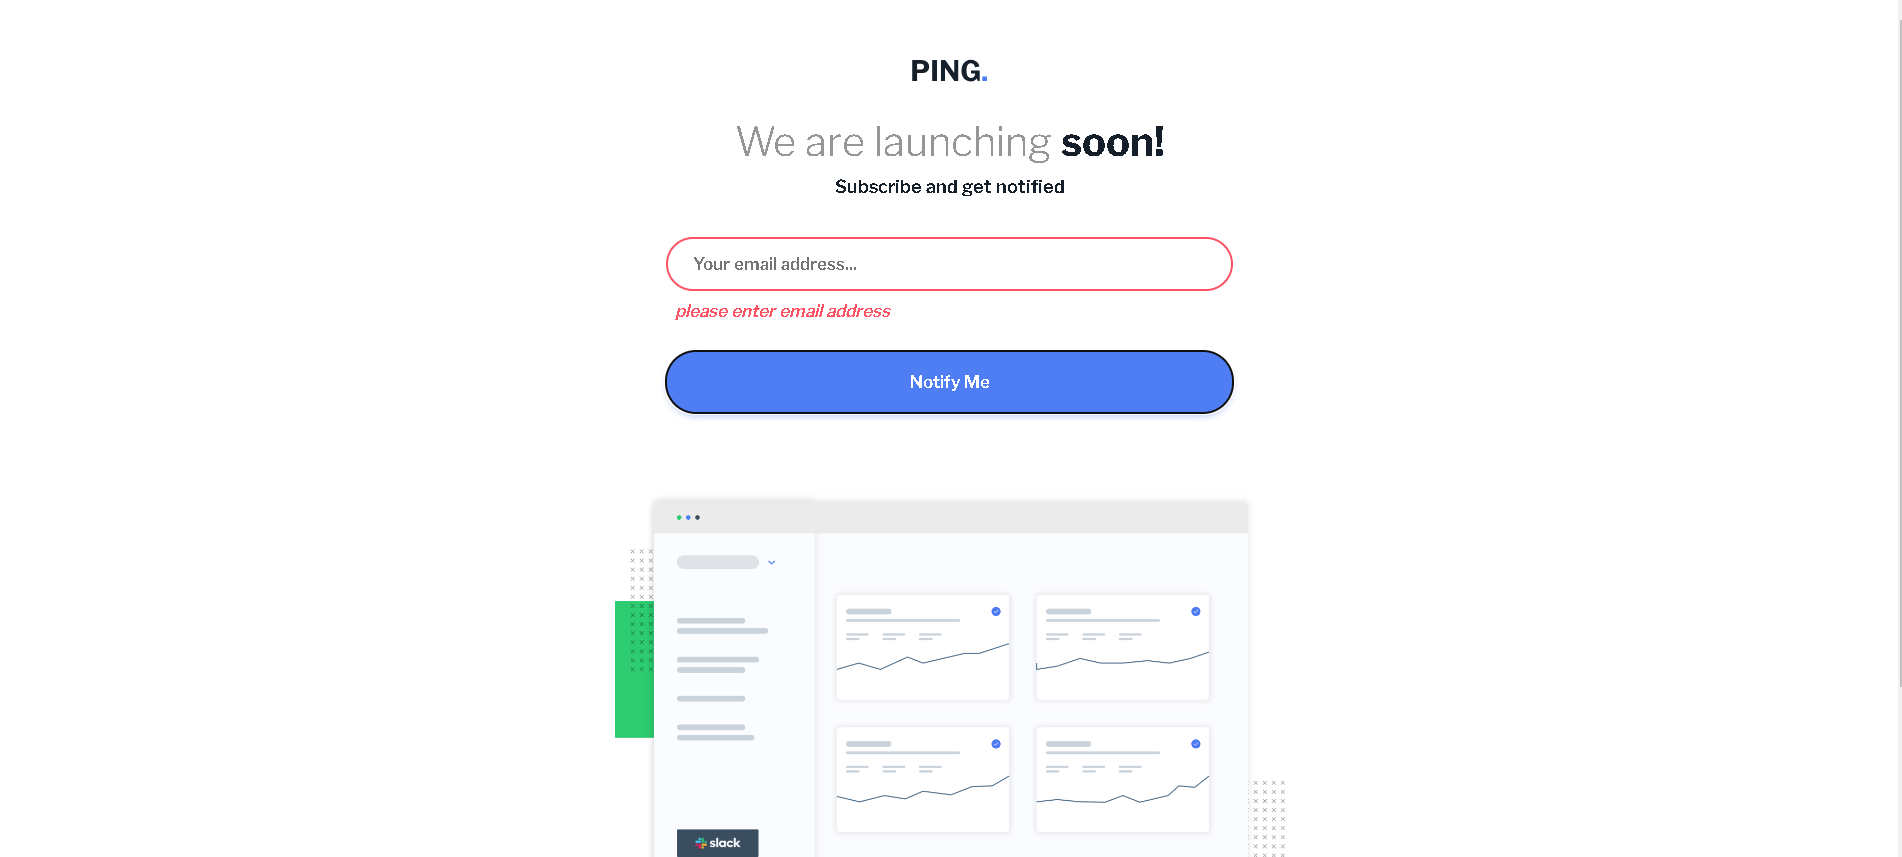
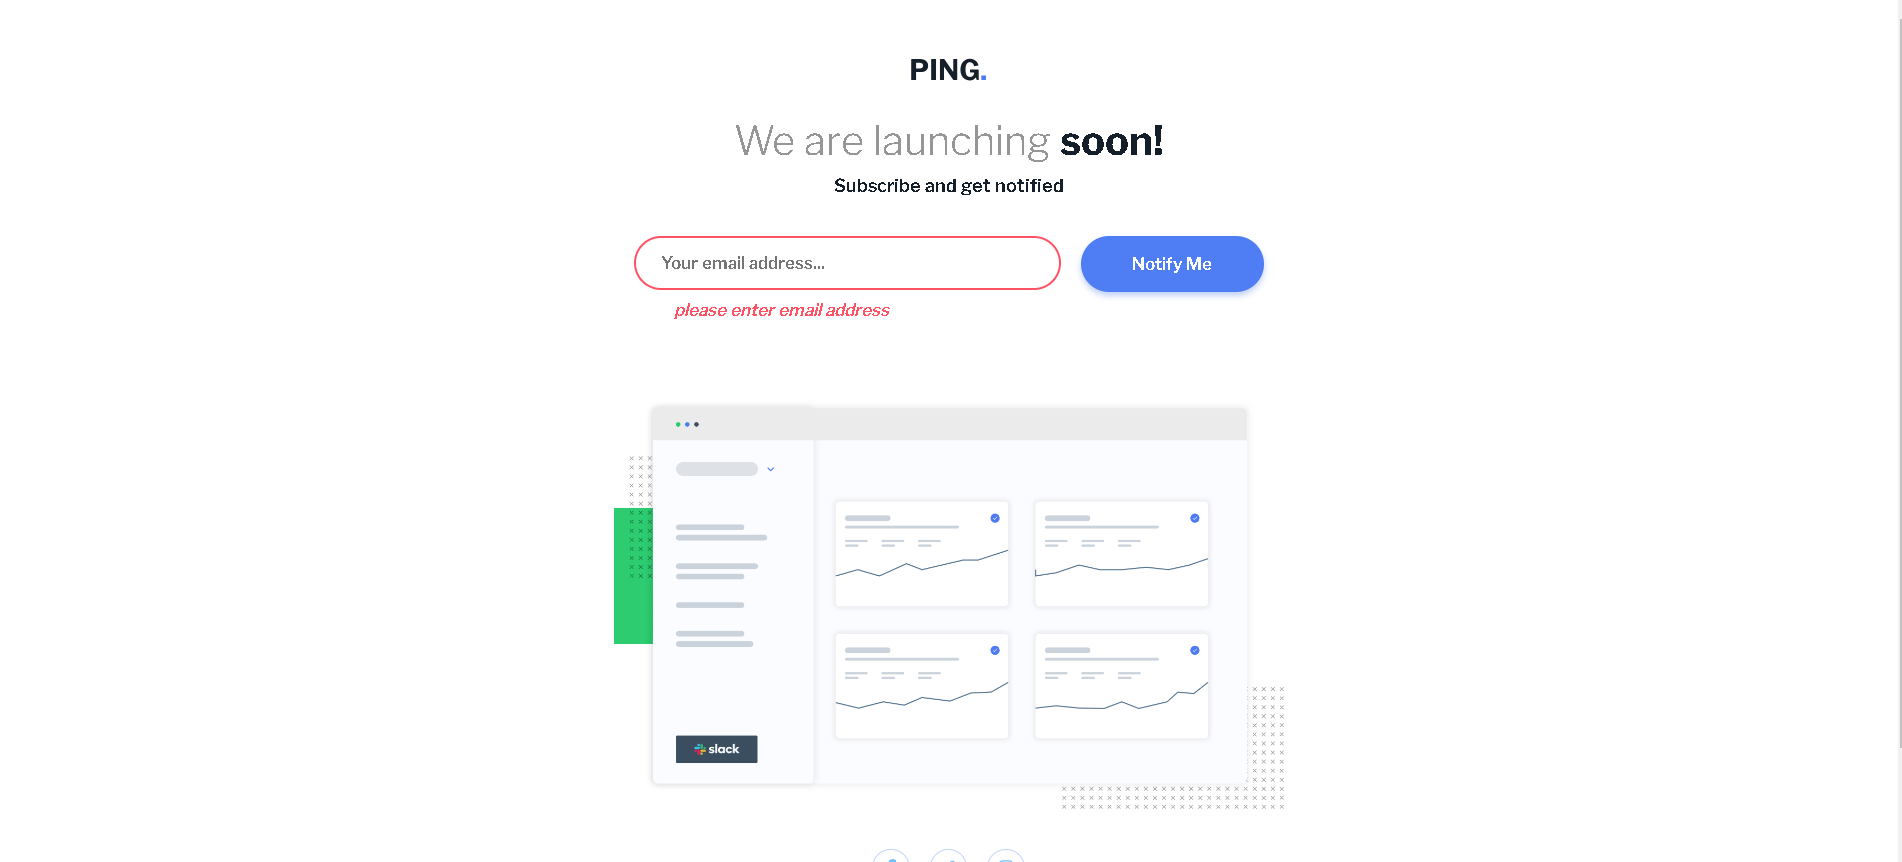
first commit

diff --git a/style.css b/style.css
@@ -66,22 +66,22 @@ span{
 .mailDiv{
     width: 100%;
     display: flex;
-    flex-direction: column;
+    flex-direction: row;
     justify-content: center;
-    align-items: center;
+    align-items: start;
     padding: 0 3rem ;
     gap: 1rem;
 }
 .input{
-    width:90% ;
+    width:100% ;
     padding: 12px 12px 12px 20px;
     border: 1px solid var(--Blue);
     border-radius: 1.5rem;
     font-weight: 600;
 }
 .btn{
-    width: 90%;
-    height: 50px;
+    width: 30%;
+    height:45px;
     padding: 0px ;
     border: none;
     background-color: var(--Blue);
@@ -112,7 +112,7 @@ span{
     fill:#74C0FC;
 }
 .errordiv{
-    width: 100%;
+    width: 70%;
     margin-top: 0.5rem;
     padding: 0 0rem ;
     /* display: none; */
@@ -222,6 +222,7 @@ span{
     .mailDiv{
         width: 100%;
         display: flex;
+        flex-direction: column;
         padding: 0 0rem ;
         gap: 1rem;
         justify-content: center;
@@ -236,7 +237,7 @@ span{
     }
     .btn{
         width: 90%;
-        height: 50px;
+        height: 45px;
         padding: 0px ;
         border: none;
         background-color: var(--Blue);

diff --git a/README-template.md b/README-template.md
@@ -10,14 +10,7 @@ This is a solution to the [Ping coming soon page challenge on Frontend Mentor](h
   - [Links](#links)
 - [My process](#my-process)
   - [Built with](#built-with)
-  - [What I learned](#what-i-learned)
-  - [Continued development](#continued-development)
-  - [Useful resources](#useful-resources)
 - [Author](#author)
-- [Acknowledgments](#acknowledgments)
-
-**Note: Delete this note and update the table of contents based on what sections you keep.**
-
 ## Overview
 
 ### The challenge
@@ -33,15 +26,10 @@ Users should be able to:
 
 ### Screenshot
 
-![](./screenshot.jpg)
-
-Add a screenshot of your solution. The easiest way to do this is to use Firefox to view your project, right-click the page and select "Take a Screenshot". You can choose either a full-height screenshot or a cropped one based on how long the page is. If it's very long, it might be best to crop it.
-
-Alternatively, you can use a tool like [FireShot](https://getfireshot.com/) to take the screenshot. FireShot has a free option, so you don't need to purchase it. 
-
-Then crop/optimize/edit your image however you like, add it to your project, and update the file path in the image above.
-
-**Note: Delete this note and the paragraphs above when you add your screenshot. If you prefer not to add a screenshot, feel free to remove this entire section.**
+![](./images/MobileSuccess.png)
+![](./images/MobileError.png)
+![](./images/DesktopSuccess.png)
+![](./images/DesktopError.png)
 
 ### Links
 
@@ -57,59 +45,10 @@ Then crop/optimize/edit your image however you like, add it to your project, and
 - Flexbox
 - CSS Grid
 - Mobile-first workflow
-- [React](https://reactjs.org/) - JS library
-- [Next.js](https://nextjs.org/) - React framework
-- [Styled Components](https://styled-components.com/) - For styles
-
-**Note: These are just examples. Delete this note and replace the list above with your own choices**
-
-### What I learned
-
-Use this section to recap over some of your major learnings while working through this project. Writing these out and providing code samples of areas you want to highlight is a great way to reinforce your own knowledge.
-
-To see how you can add code snippets, see below:
-
-```html
-<h1>Some HTML code I'm proud of</h1>
-```
-```css
-.proud-of-this-css {
-  color: papayawhip;
-}
-```
-```js
-const proudOfThisFunc = () => {
-  console.log('🎉')
-}
-```
-
-If you want more help with writing markdown, we'd recommend checking out [The Markdown Guide](https://www.markdownguide.org/) to learn more.
-
-**Note: Delete this note and the content within this section and replace with your own learnings.**
-
-### Continued development
-
-Use this section to outline areas that you want to continue focusing on in future projects. These could be concepts you're still not completely comfortable with or techniques you found useful that you want to refine and perfect.
-
-**Note: Delete this note and the content within this section and replace with your own plans for continued development.**
-
-### Useful resources
-
-- [Example resource 1](https://www.example.com) - This helped me for XYZ reason. I really liked this pattern and will use it going forward.
-- [Example resource 2](https://www.example.com) - This is an amazing article which helped me finally understand XYZ. I'd recommend it to anyone still learning this concept.
-
-**Note: Delete this note and replace the list above with resources that helped you during the challenge. These could come in handy for anyone viewing your solution or for yourself when you look back on this project in the future.**
+- javaScript
 
 ## Author
 
-- Website - [Add your name here](https://www.your-site.com)
-- Frontend Mentor - [@yourusername](https://www.frontendmentor.io/profile/yourusername)
-- Twitter - [@yourusername](https://www.twitter.com/yourusername)
-
-**Note: Delete this note and add/remove/edit lines above based on what links you'd like to share.**
-
-## Acknowledgments
-
-This is where you can give a hat tip to anyone who helped you out on this project. Perhaps you worked in a team or got some inspiration from someone else's solution. This is the perfect place to give them some credit.
-
-**Note: Delete this note and edit this section's content as necessary. If you completed this challenge by yourself, feel free to delete this section entirely.**
+- Github - [kalaiyarasan](https://github.com/MKDEVELOPER14)
+- Frontend Mentor - [@MKDEVEVLOPER](https://www.frontendmentor.io/profile/MKDEVEVLOPER)
+- LinkedIn -[Kalaiyarasan M](https://www.linkedin.com/in/cyberkalai)
